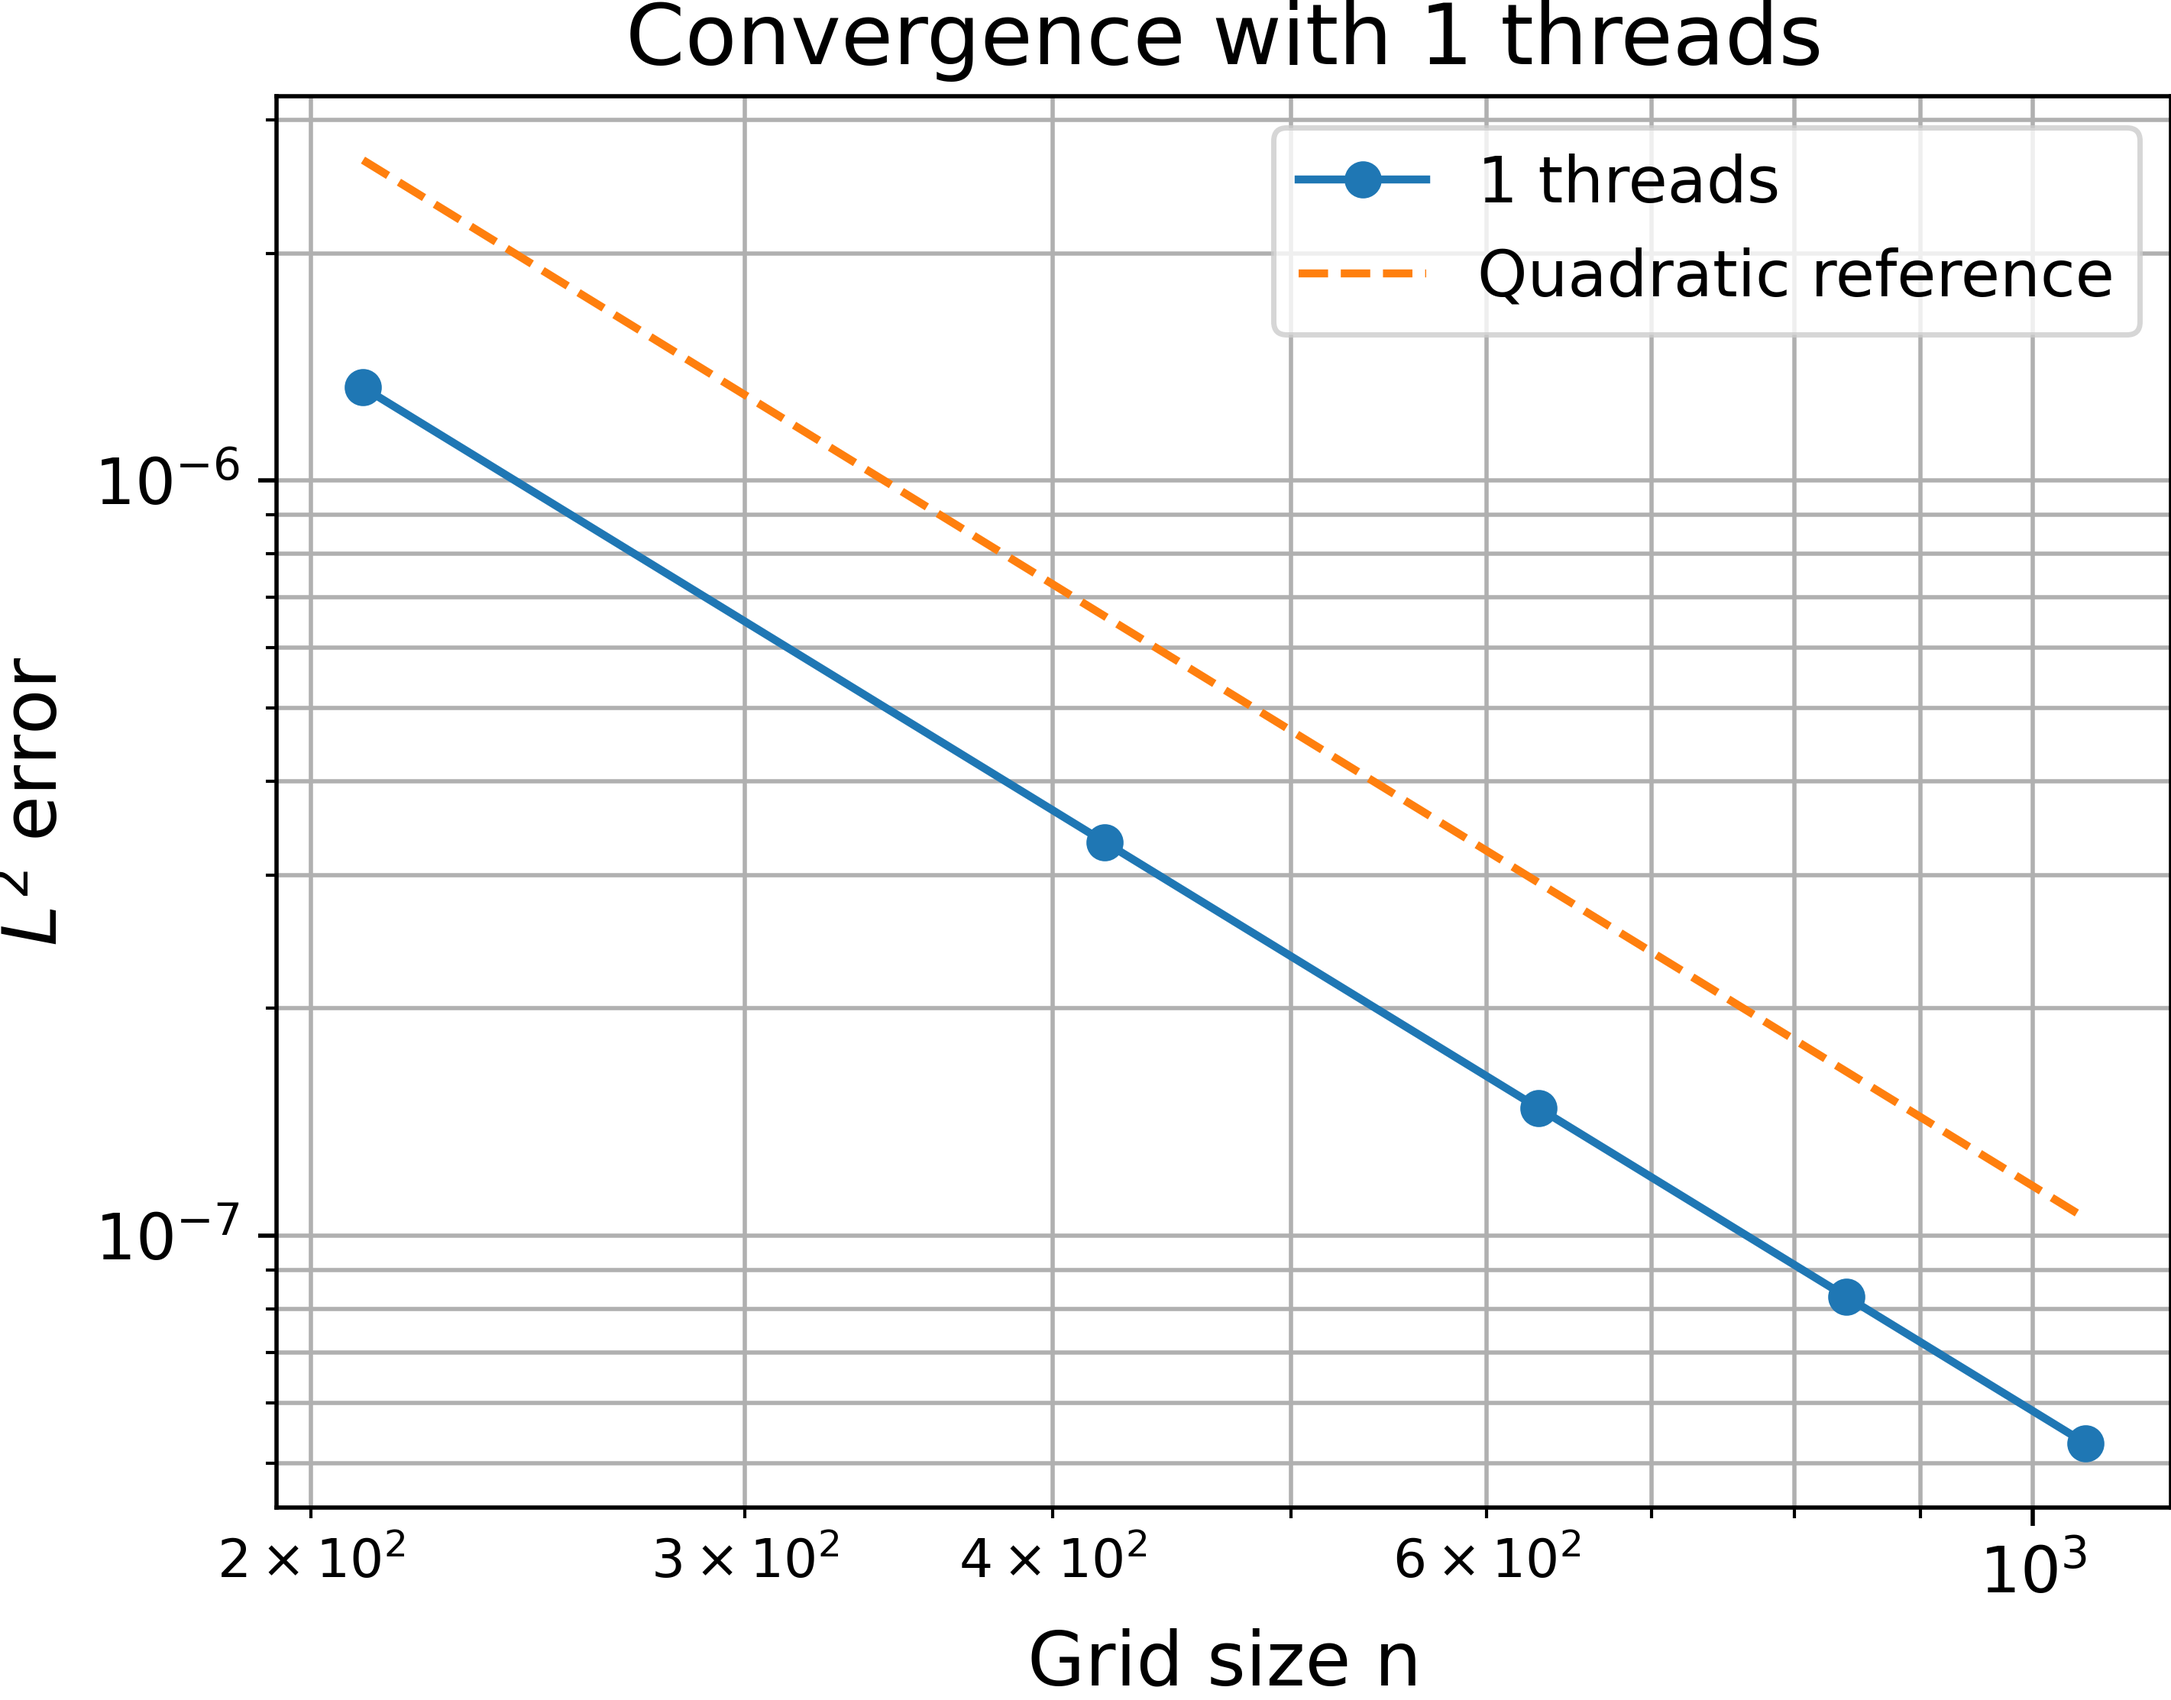
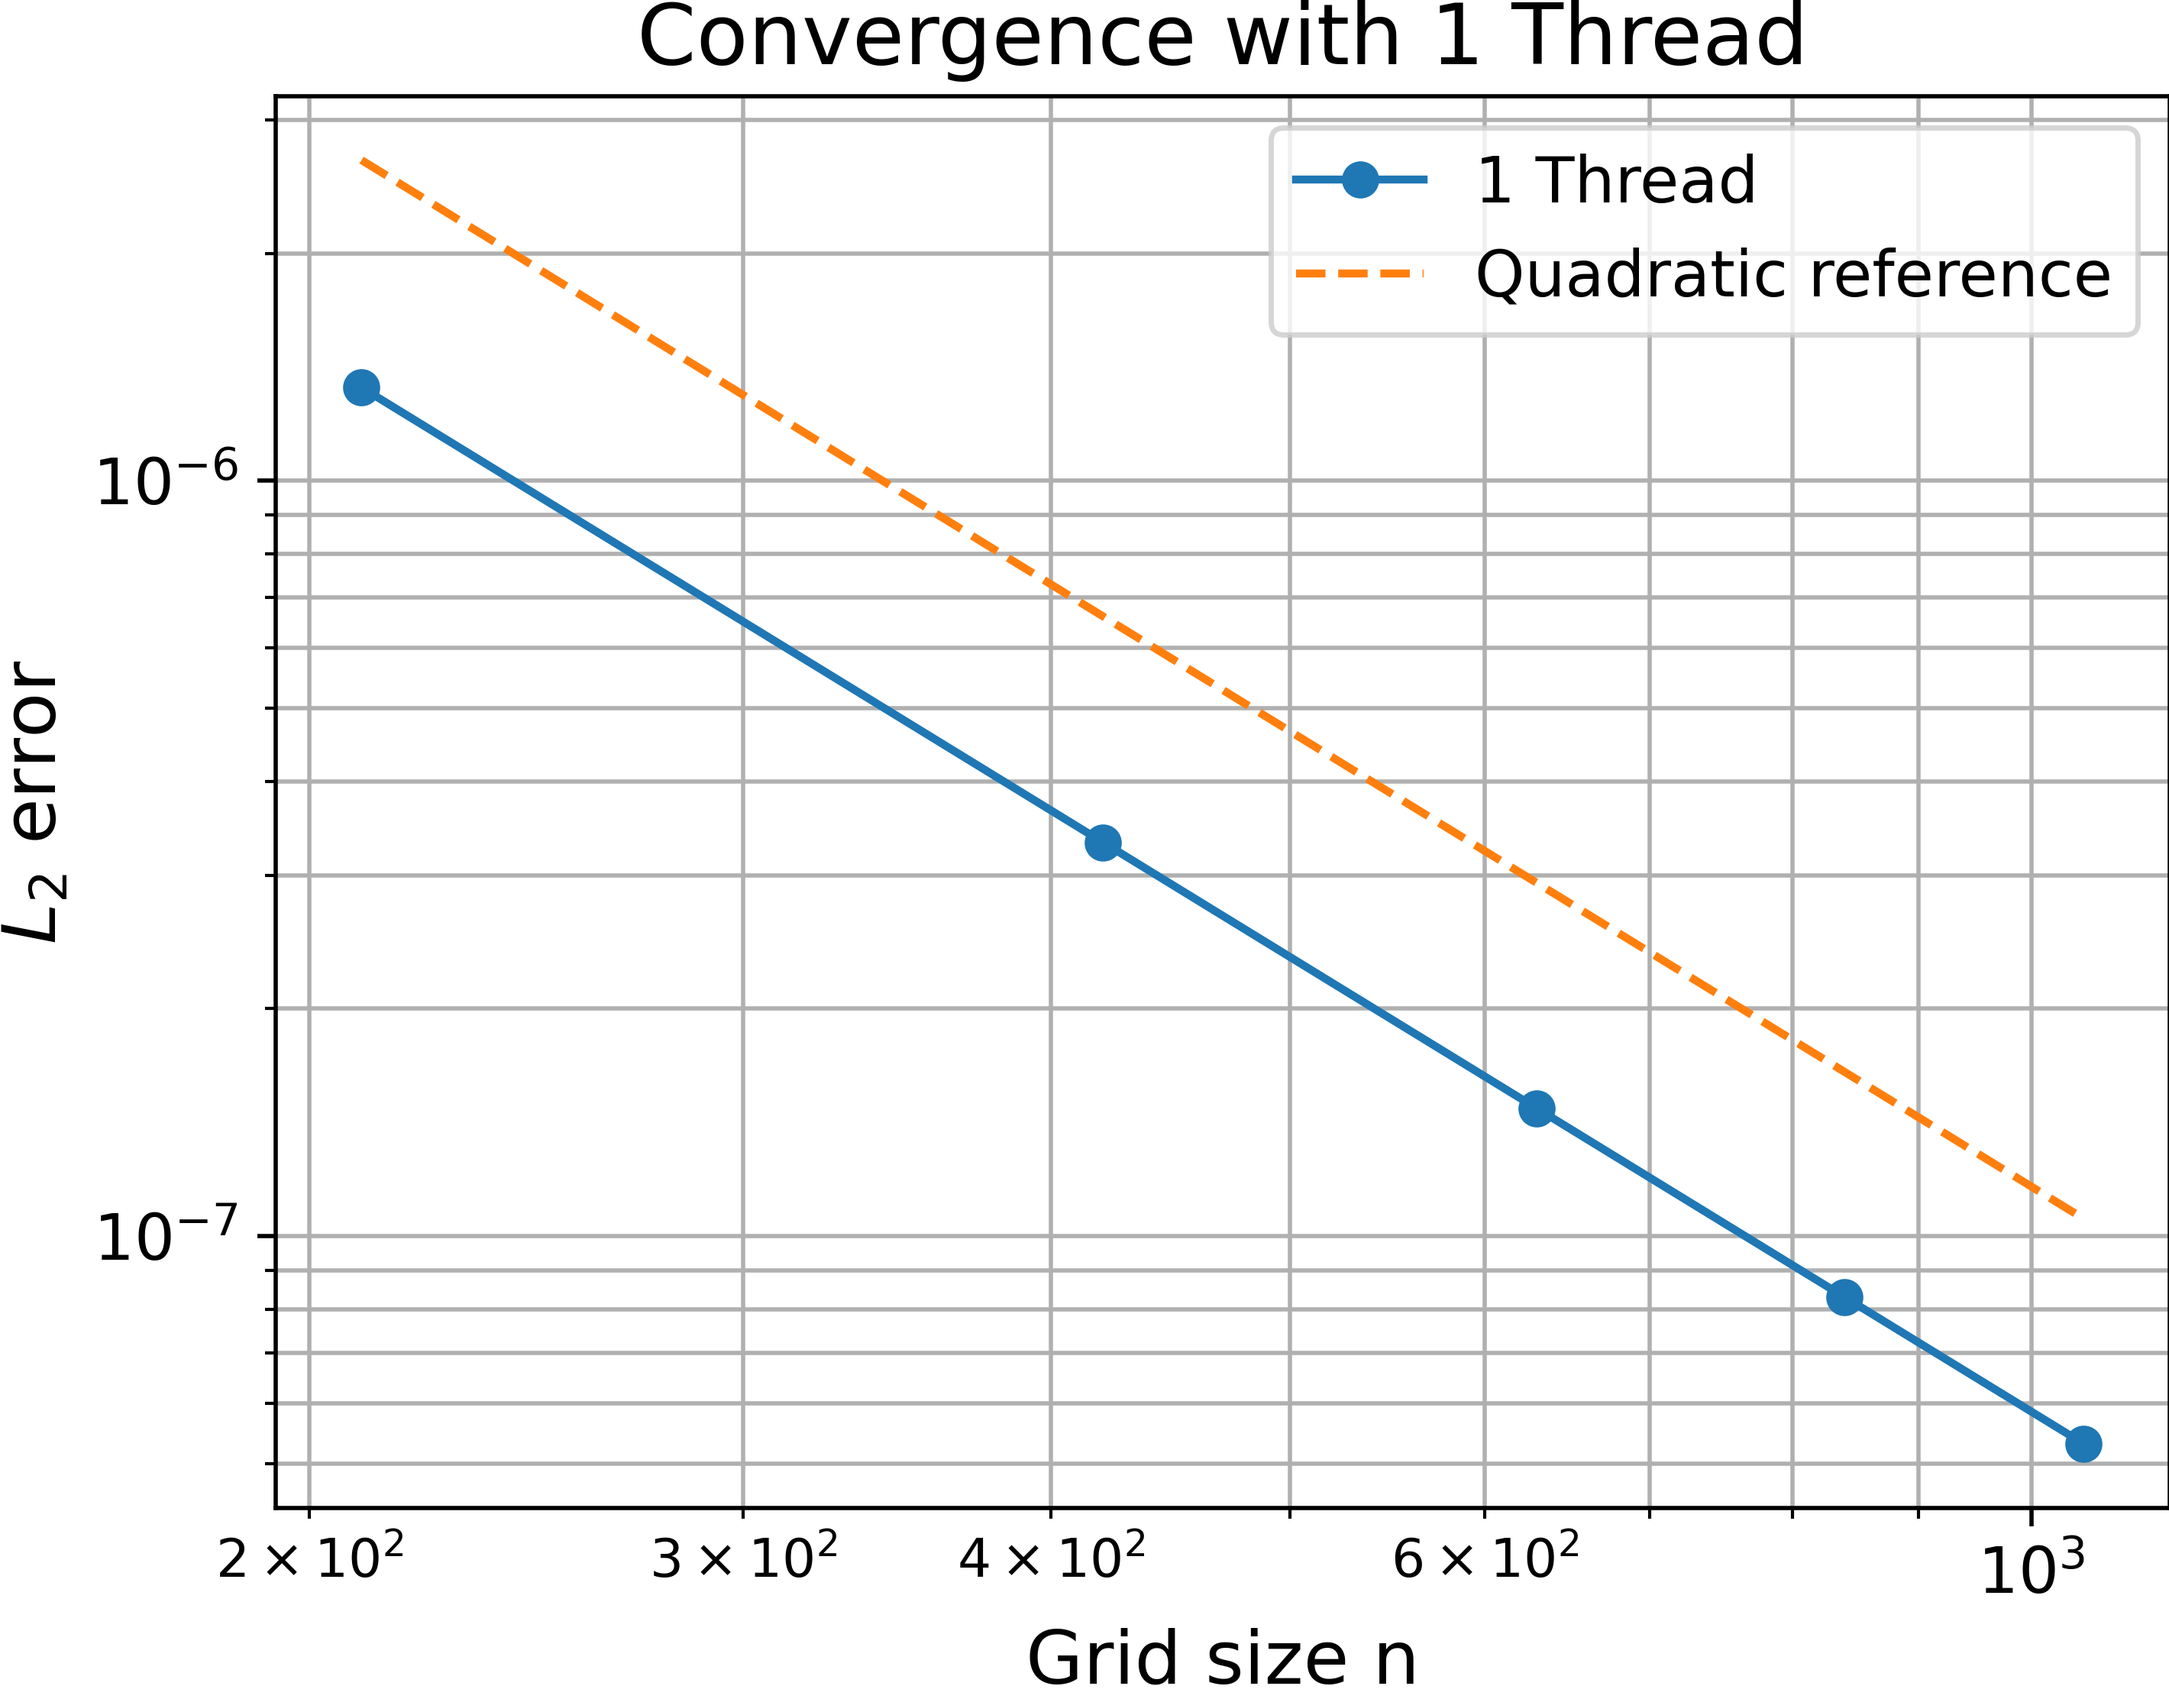
small changes to Convergence with 1 Thread plot

diff --git a/hw4/code/hw4_skeleton.py b/hw4/code/hw4_skeleton.py
@@ -198,6 +198,22 @@ elif option == 3:
 else:
     print("Incorrect Option!")
 
+# if option == 3:
+#     n = int(problem_sizes[0])
+#     h = 1.0 / (n-1)
+
+#     A = poisson((n, n), format='csr')
+#     A *= 1.0 / h**2
+
+#     print("\nCorner (row 0):")
+#     print(A.getrow(0)) 
+
+#     print("\nBoundary wall (row 2):")
+#     print(A.getrow(2))
+
+#     print("\nInterior (row 14):")
+#     print(A.getrow(14)) 
+
 ##
 # Begin main computation loop
 ##
@@ -286,33 +302,33 @@ for i,nt in enumerate(num_threads):
     # Recommended to comment out plotting before running on CARC 
     #
 
-    #pyplot.figure()
-    #pyplot.loglog(problem_sizes, errorVals[i, :], 'o-', label=f'{nt} threads')
-    #hVals = 1./(problem_sizes - 1)
-    #firstH = 1./(problem_sizes[0] - 1)
+    # pyplot.figure()
+    # pyplot.loglog(problem_sizes, errorVals[i, :], 'o-', label=f'{nt} threads')
+    # hVals = 1./(problem_sizes - 1)
+    # firstH = 1./(problem_sizes[0] - 1)
     
     # theoretically, our code satisfies E(h)=c*(h^2) -> c = e0/h0^2 => ref = e0 / h0^2 * h^2
     
-    #reference = 2.0 * (errorVals[i, 0] / (firstH**2)) * hVals**2
+    # reference = 2.0 * (errorVals[i, 0] / (firstH**2)) * hVals**2
     # mult by 2 so that both can be seen
 
-    #print("problem sizes:", problem_sizes)
-    #print("errors:", errorVals[i, :])
-    #print("reference:", reference)
+    # print("problem sizes:", problem_sizes)
+    # print("errors:", errorVals[i, :])
+    # print("reference:", reference)
 
-    #pyplot.loglog(problem_sizes, reference, '--', label='Quadratic reference')
+    # pyplot.loglog(problem_sizes, reference, '--', label='Quadratic reference')
 
-    #pyplot.xlabel('Grid size n', fontsize=14)
-    #pyplot.ylabel(r'$L^2$ error', fontsize=14)
-    #pyplot.title(f'Convergence with {nt} threads', fontsize=16)
-    #pyplot.xticks(fontsize=12)
-    #pyplot.yticks(fontsize=12)
-    #pyplot.legend(fontsize=12)
-    #pyplot.grid(True, which='both')
+    # pyplot.xlabel('Grid size n', fontsize=14)
+    # pyplot.ylabel(r'$L^2$ error', fontsize=14)
+    # pyplot.title(f'Convergence with {nt} threads', fontsize=16)
+    # pyplot.xticks(fontsize=12)
+    # pyplot.yticks(fontsize=12)
+    # pyplot.legend(fontsize=12)
+    # pyplot.grid(True, which='both')
 
-    #pyplot.savefig('error' + str(nt) + '.png', dpi=500, format='png', bbox_inches='tight', pad_inches=0.0)
+    # pyplot.savefig('error' + str(nt) + '.png', dpi=500, format='png', bbox_inches='tight', pad_inches=0.0)
 
-    #pyplot.close()
+    # pyplot.close()
 
 
 # Task:
